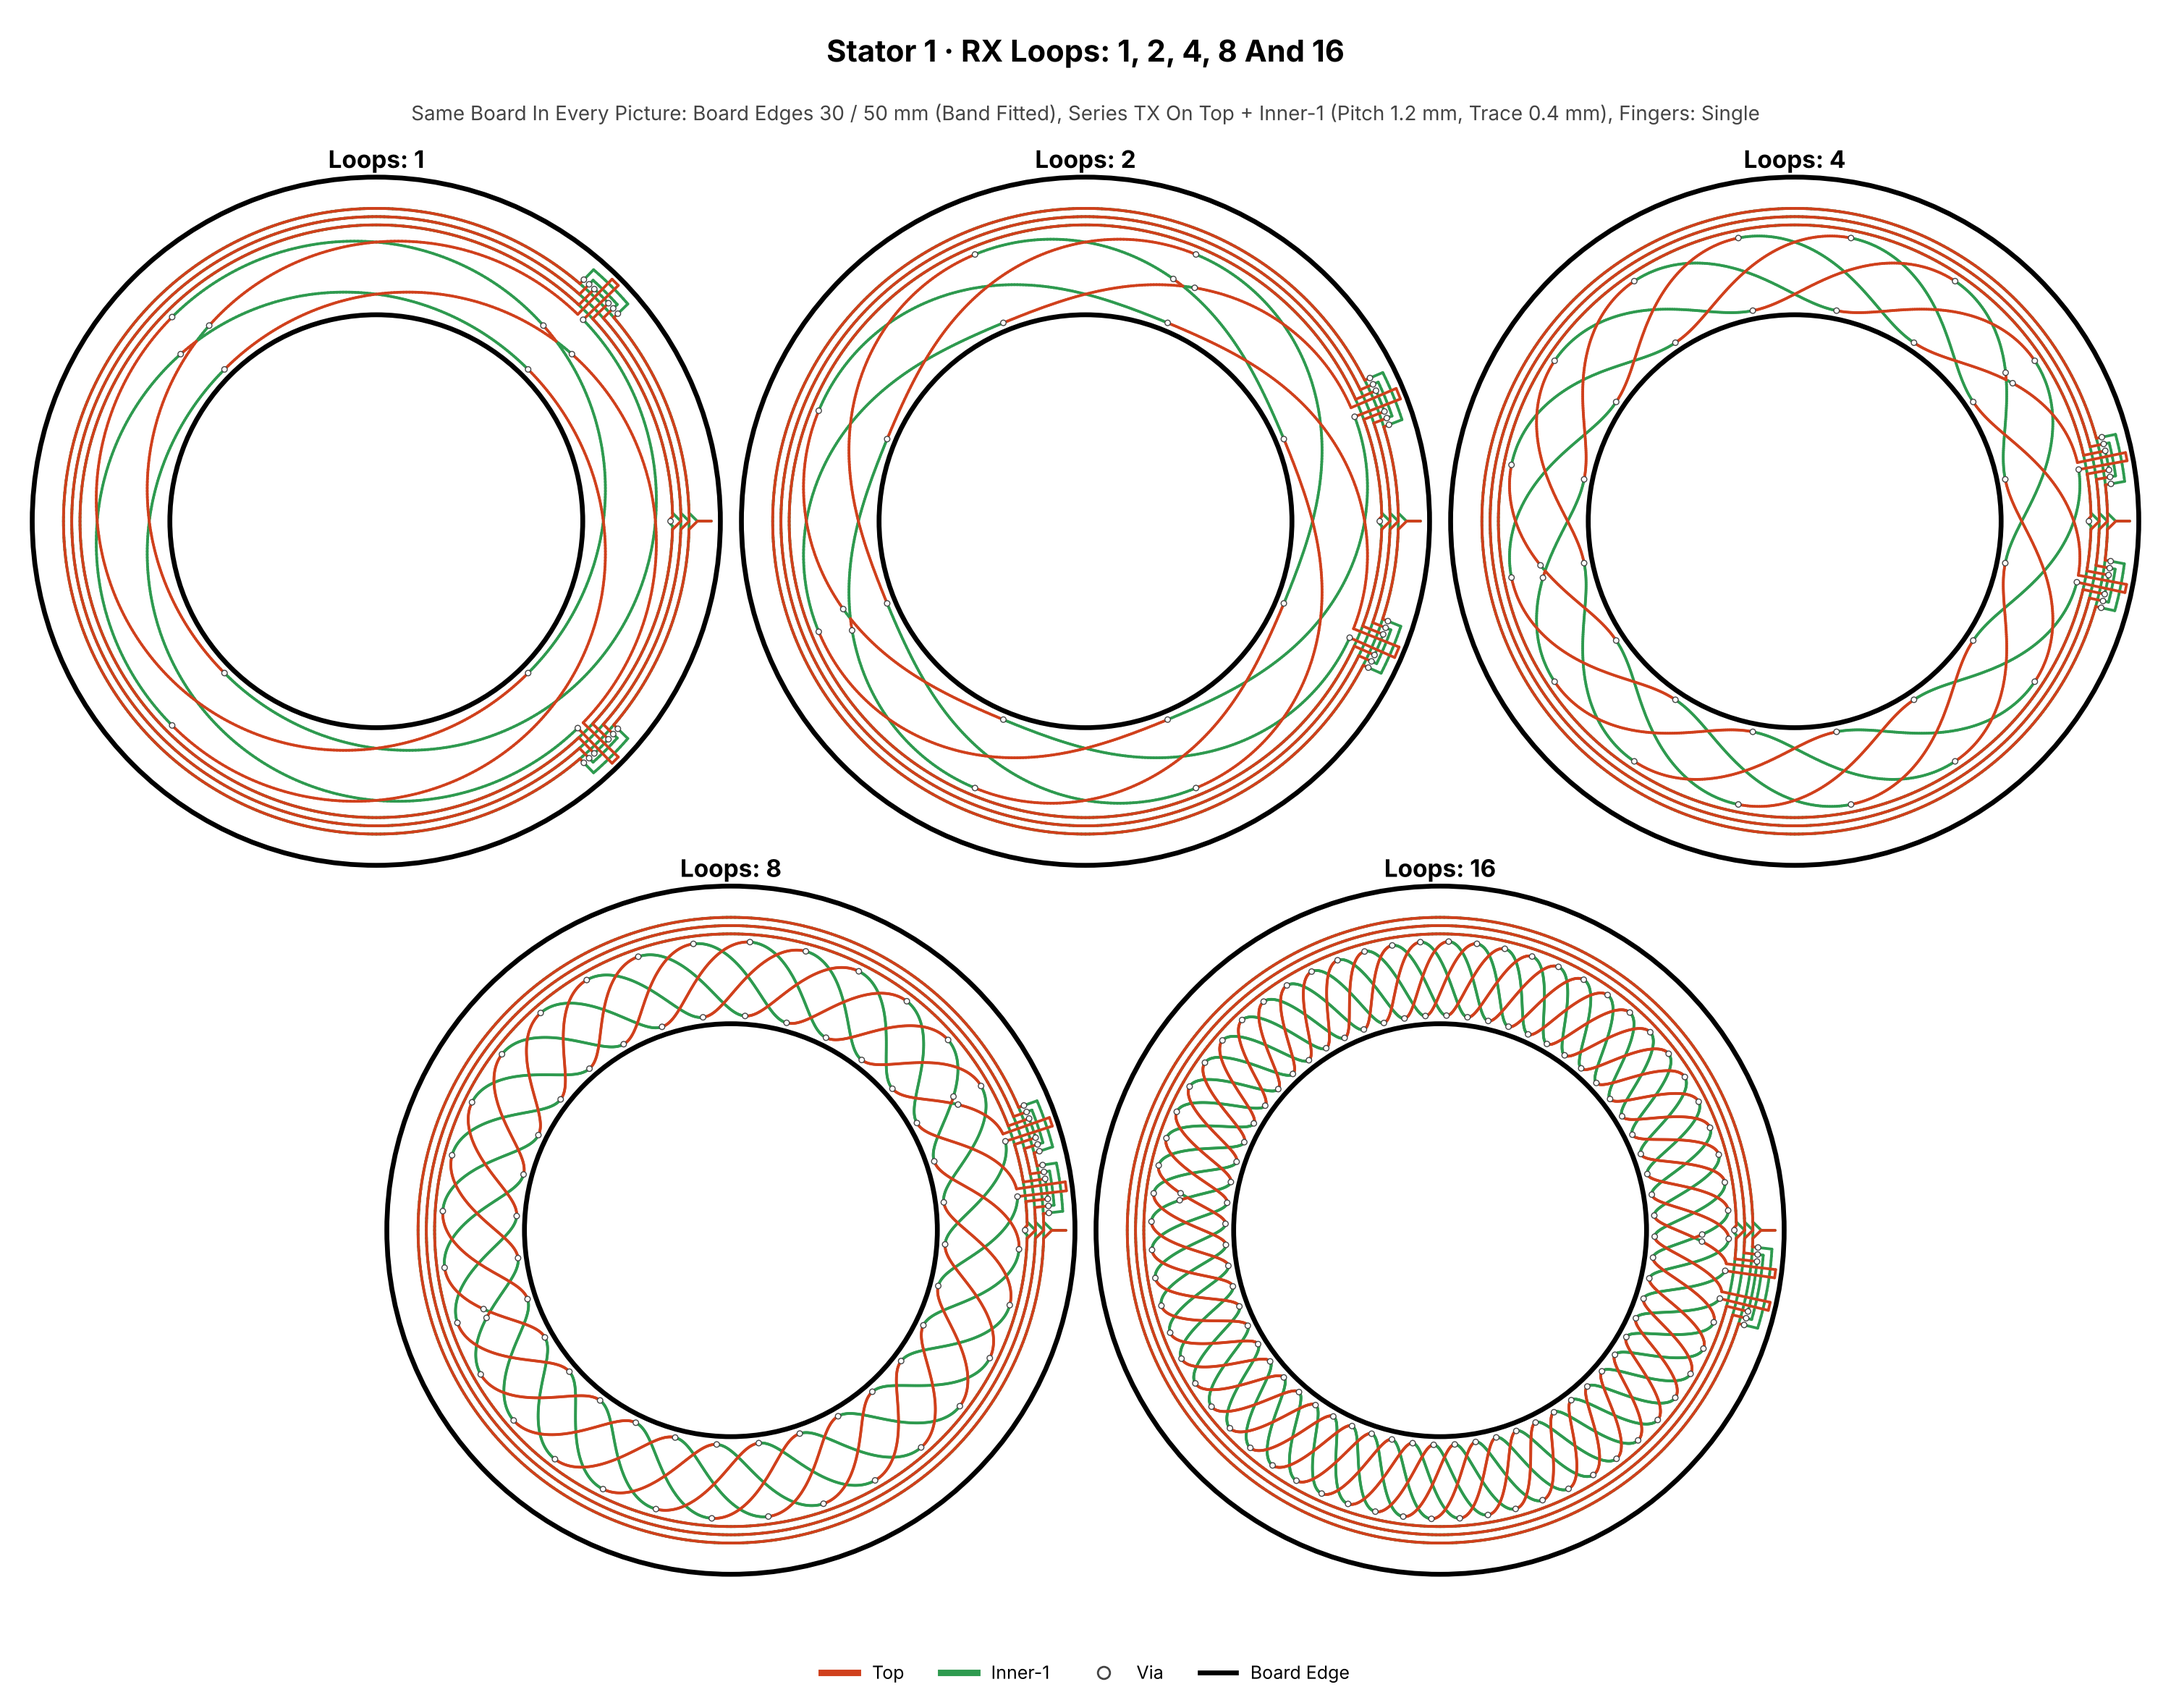
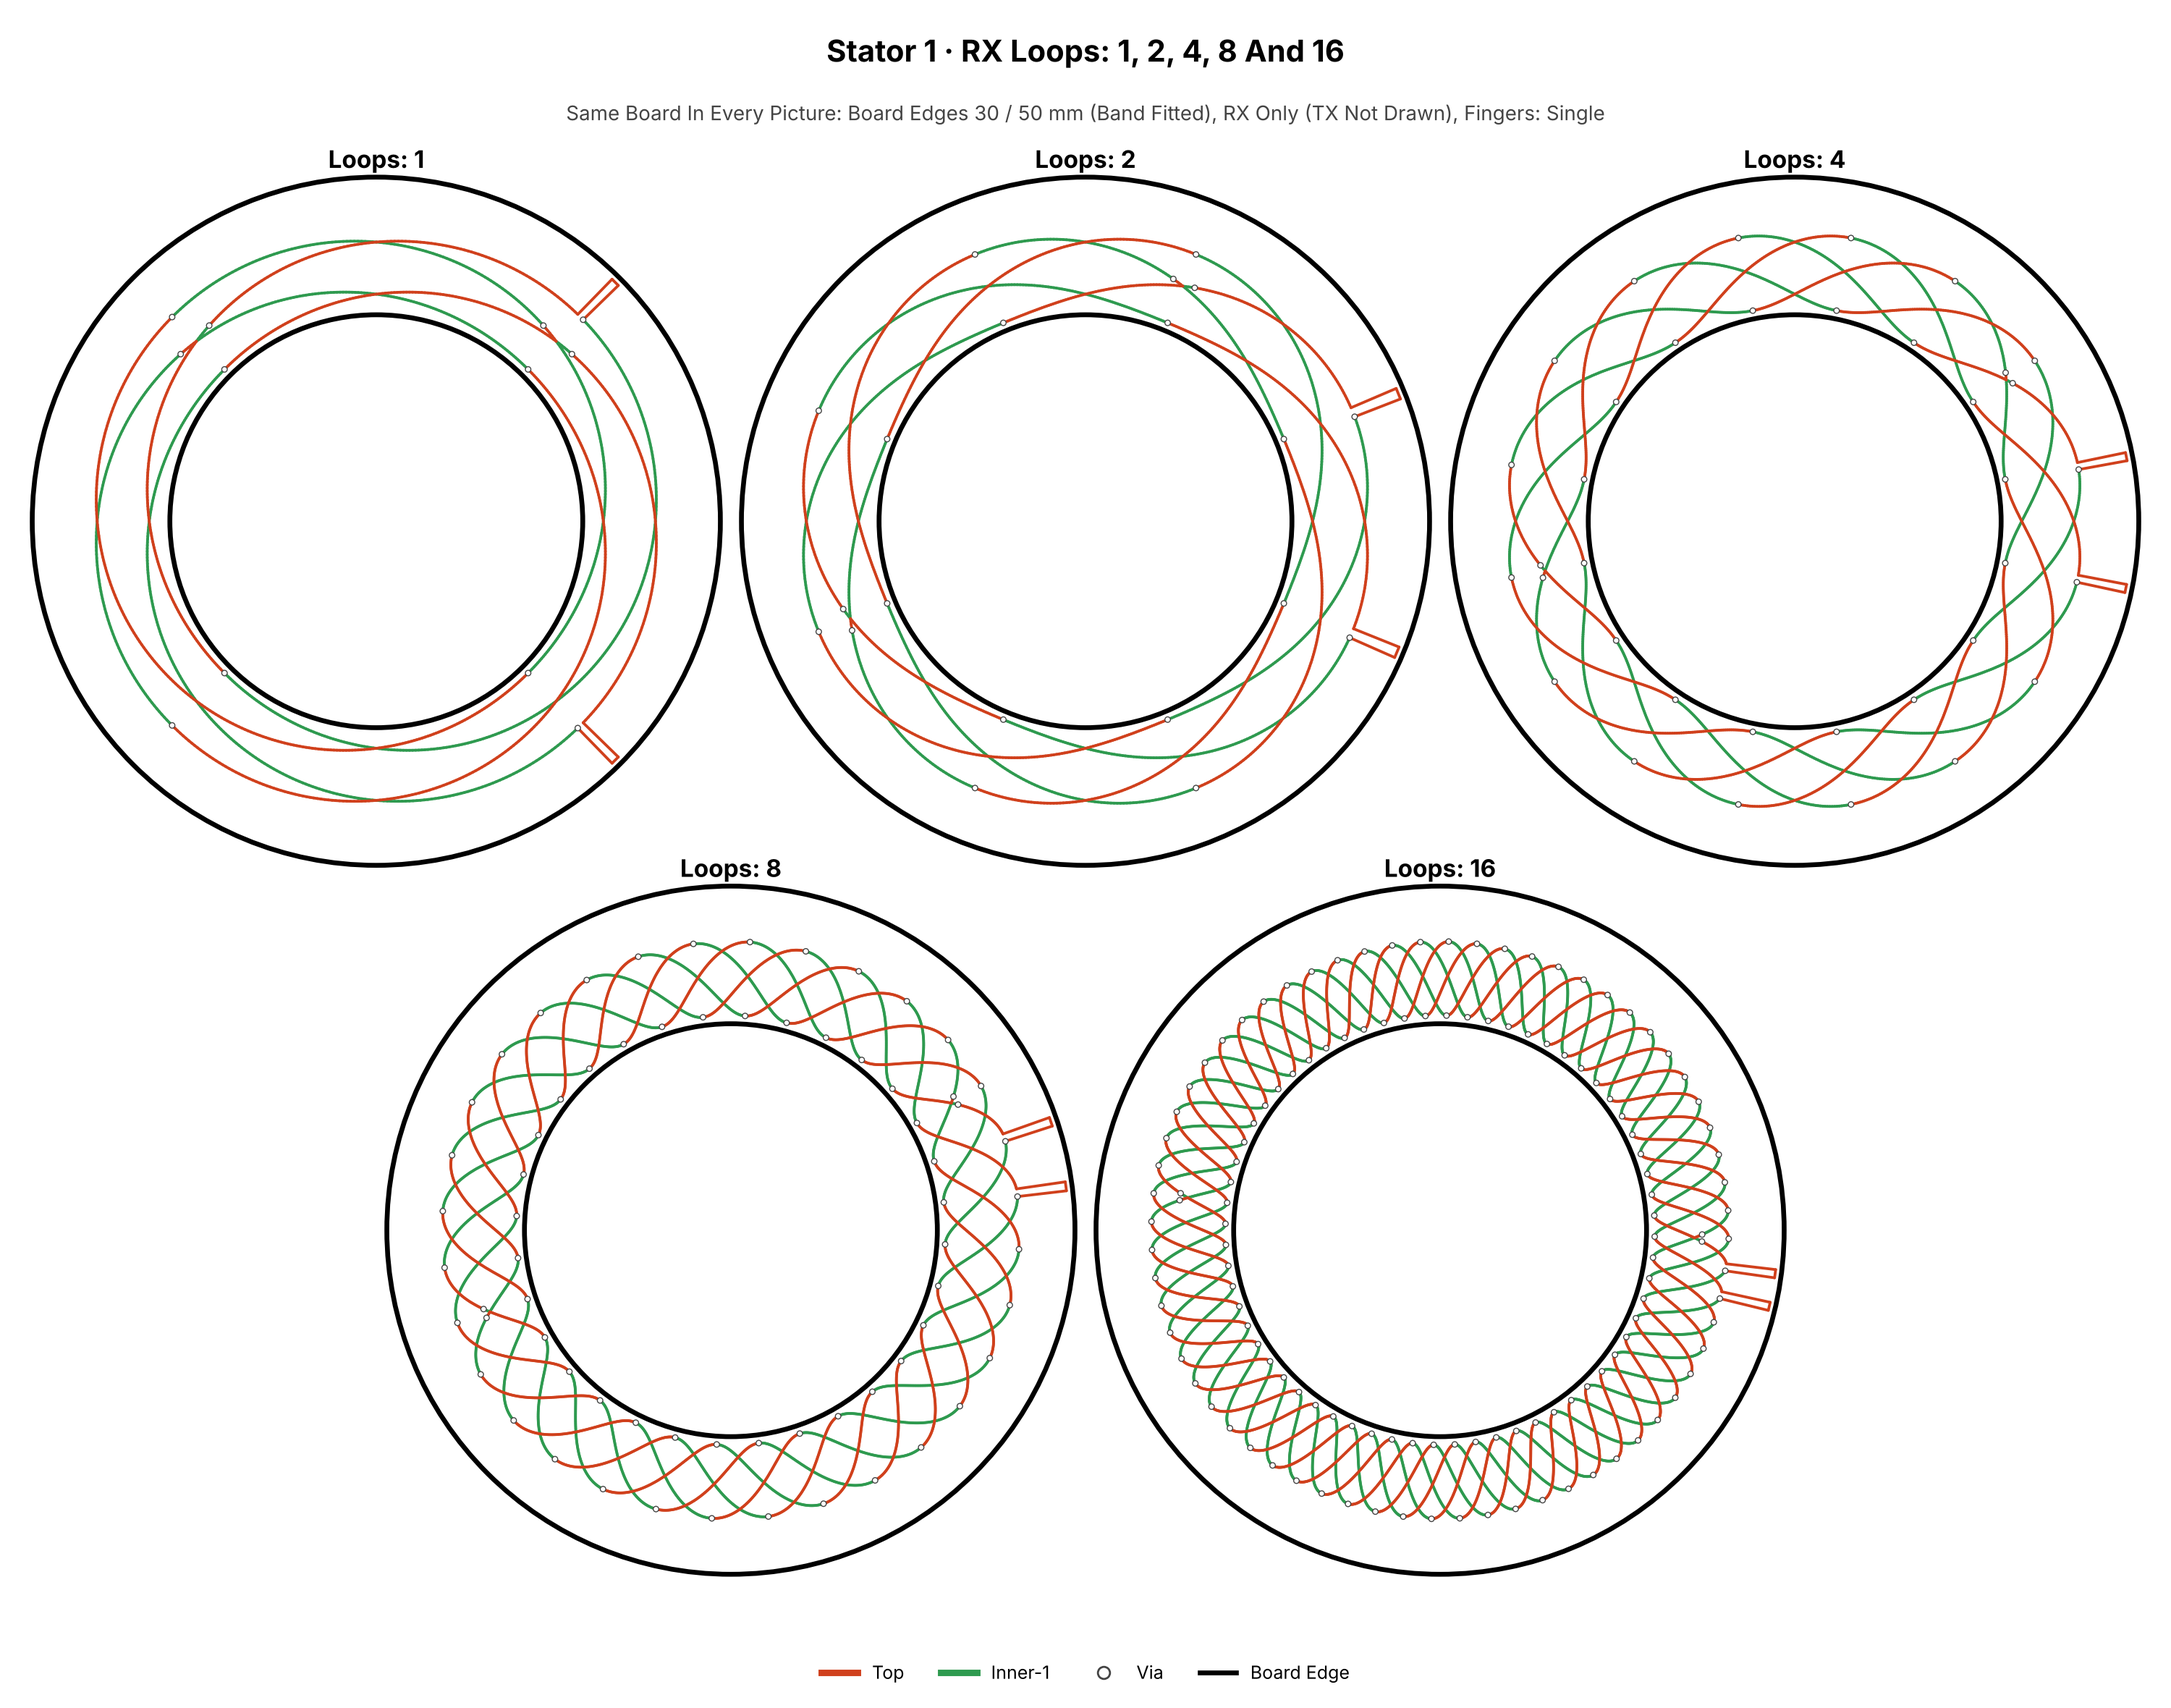
Wiki: draw RX only in RX Profile 3 and Stator 1-3 pictures
The TX coils are no longer drawn in these four pictures; boards and RX are unchanged.
Captions now say the TX is not drawn.

Claude-Session: https://claude.ai/code/session_01Wz3f2AWBpP5Heq8v1QLUc3

diff --git a/docs/wiki/Stator-Features.md b/docs/wiki/Stator-Features.md
@@ -20,7 +20,7 @@ true absolute 0–360° sensor. More loops divide the turn into finer periods fo
 
 ![Stator 1: RX Loops](https://raw.githubusercontent.com/RolandThsive/Inductive-Encoder-Sinusoidal-Coil-Generator/main/docs/images/stator_1_loops.png)
 
-*Stator 1. The same board with 1, 2, 4, 8 and 16 loops.*
+*Stator 1. The same board with 1, 2, 4, 8 and 16 loops (RX only, the TX is not drawn).*
 
 ### 11.1.2 Sub-Coils
 
@@ -32,7 +32,7 @@ most.
 
 ![Stator 2: RX Sub-Coils](https://raw.githubusercontent.com/RolandThsive/Inductive-Encoder-Sinusoidal-Coil-Generator/main/docs/images/stator_2_subcoils.png)
 
-*Stator 2. A miniature 1-loop stator with 1 sub-coil and with 2 sub-coils split by 45°.*
+*Stator 2. A miniature 1-loop stator with 1 sub-coil and with 2 sub-coils split by 45° (RX only, the TX is not drawn).*
 
 ### 11.1.3 Finger Styles
 
@@ -50,7 +50,7 @@ the outermost TX turn (a longer TX pitch needs longer fingers) the generator sto
 ![Stator 3: RX Bridging Fingers](https://raw.githubusercontent.com/RolandThsive/Inductive-Encoder-Sinusoidal-Coil-Generator/main/docs/images/stator_3_fingers.png)
 
 *Stator 3. A 4-loop stator with fingers set to All, Single and None. In the models, Single is as
-accurate as None.*
+accurate as None. RX only, the TX is not drawn.*
 
 ## 11.2 TX Coils
 

diff --git a/docs/wiki/RX-Profiles.md b/docs/wiki/RX-Profiles.md
@@ -76,7 +76,7 @@ grey line in the right panel is the middle of the band, 44.5 mm, for comparison.
 
 ![RX Profile 3: The three profiles](https://raw.githubusercontent.com/RolandThsive/Inductive-Encoder-Sinusoidal-Coil-Generator/main/docs/images/rx_profile_3_comparison.png)
 
-*RX Profile 3. The same 4-loop board (board edges 30 / 50 mm, series TX on Top + Inner-1, pitch 1.2 mm) built with each of the two profiles, and the radius of the SIN curves over one electrical period (90°). The two profiles lie almost on top of each other.*
+*RX Profile 3. The same 4-loop board (board edges 30 / 50 mm, RX only, the TX is not drawn) built with each of the two profiles, and the radius of the SIN curves over one electrical period (90°). The two profiles lie almost on top of each other.*
 
 | Previous | Next |
 |:---|---:|
